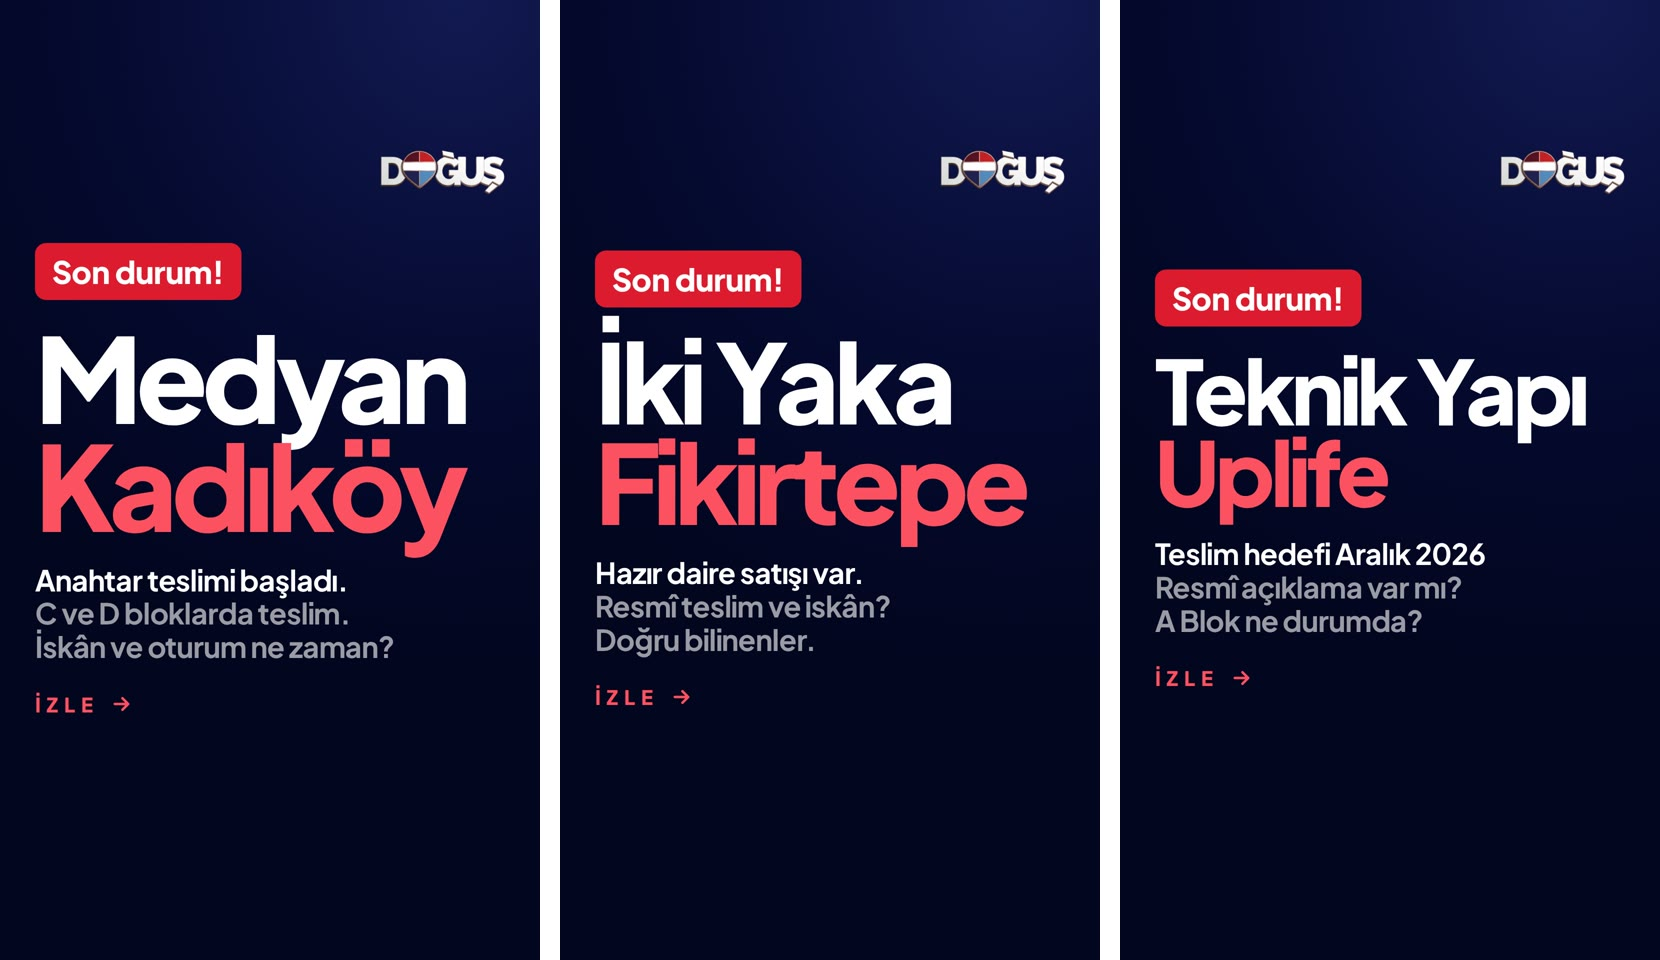
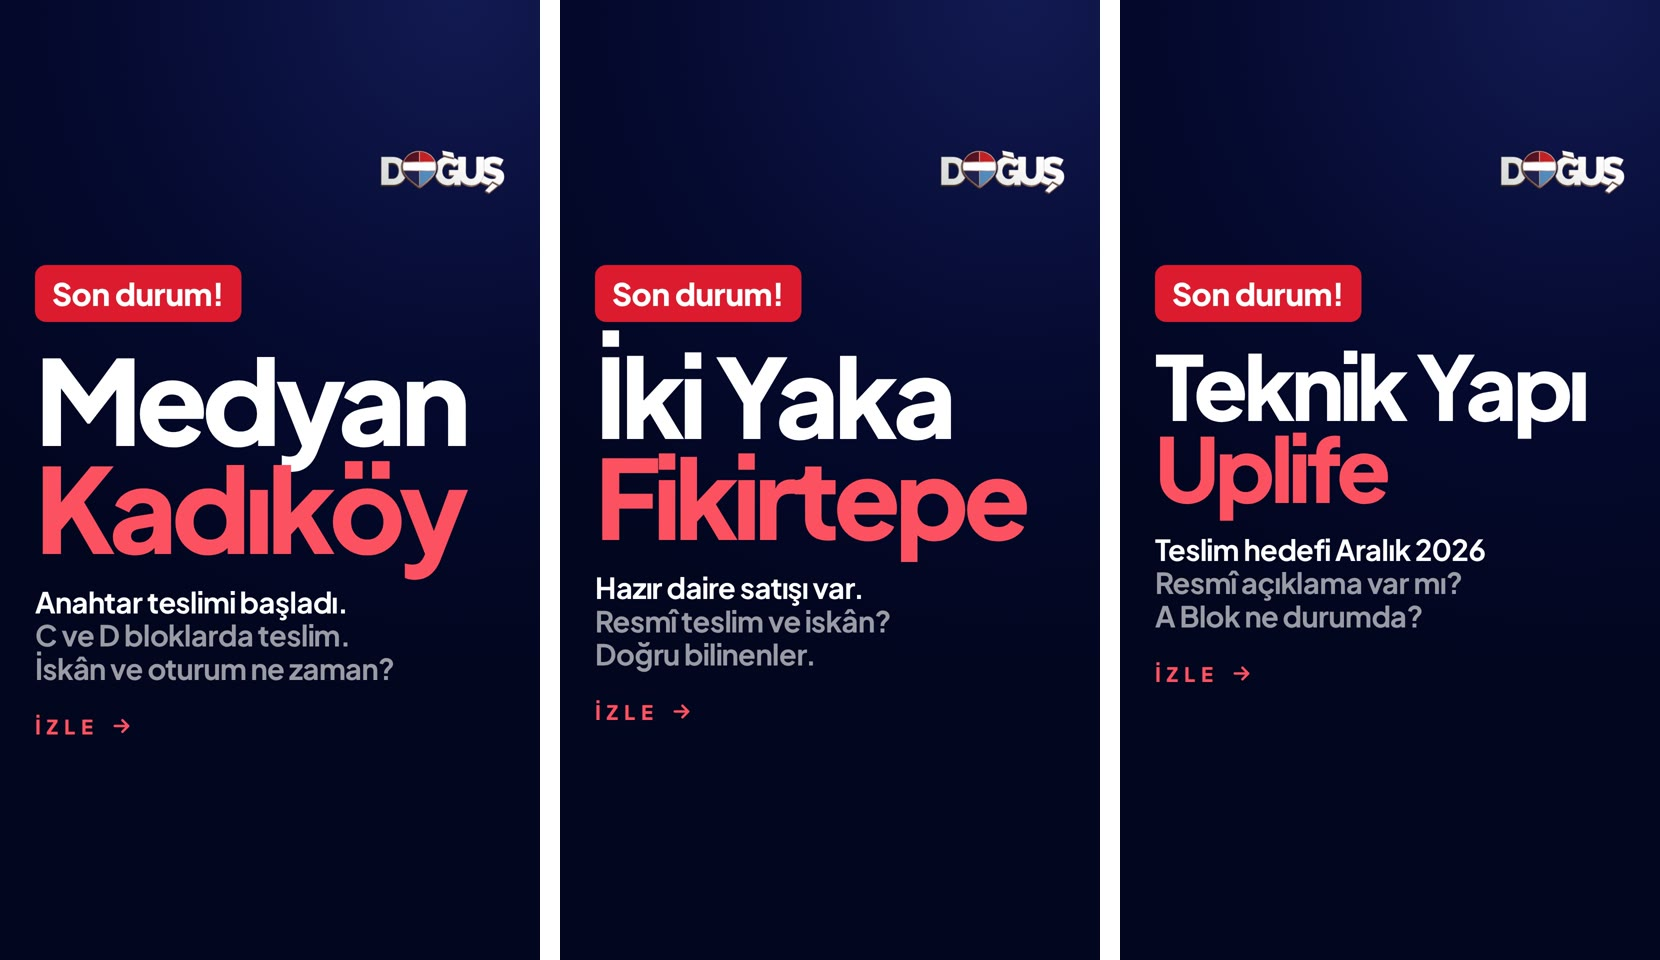
Kapaklar: icerik uc kapakta da ayni yukseklikten basliyor
Claude-Session: https://claude.ai/code/session_01WRjv6iEbjtXjTmoaDMzP1n

diff --git a/ikiyaka/kapak.html b/ikiyaka/kapak.html
@@ -26,6 +26,9 @@ h1 .hl{color:#FB5160}
 .red h1 .hl{color:#050A30}
 .red .kay{color:#fff}
 .red .kay svg{stroke:#fff}
+/* İçerik üç kapakta da aynı yükseklikten başlasın */
+#c{justify-content:flex-start!important;padding-top:250px!important}
+.reel #c{padding-top:530px!important}
 </style>
 </head>
 <body>

diff --git a/medyan/kapak-buyuk.html b/medyan/kapak-buyuk.html
@@ -26,6 +26,9 @@ h1 .hl{color:#FB5160}
 .red h1 .hl{color:#050A30}
 .red .kay{color:#fff}
 .red .kay svg{stroke:#fff}
+/* İçerik üç kapakta da aynı yükseklikten başlasın */
+#c{justify-content:flex-start!important;padding-top:250px!important}
+.reel #c{padding-top:530px!important}
 </style>
 </head>
 <body>

diff --git a/uplife/kapak.html b/uplife/kapak.html
@@ -26,6 +26,9 @@ h1 .hl{color:#FB5160}
 .red h1 .hl{color:#050A30}
 .red .kay{color:#fff}
 .red .kay svg{stroke:#fff}
+/* İçerik üç kapakta da aynı yükseklikten başlasın */
+#c{justify-content:flex-start!important;padding-top:250px!important}
+.reel #c{padding-top:530px!important}
 </style>
 </head>
 <body>
